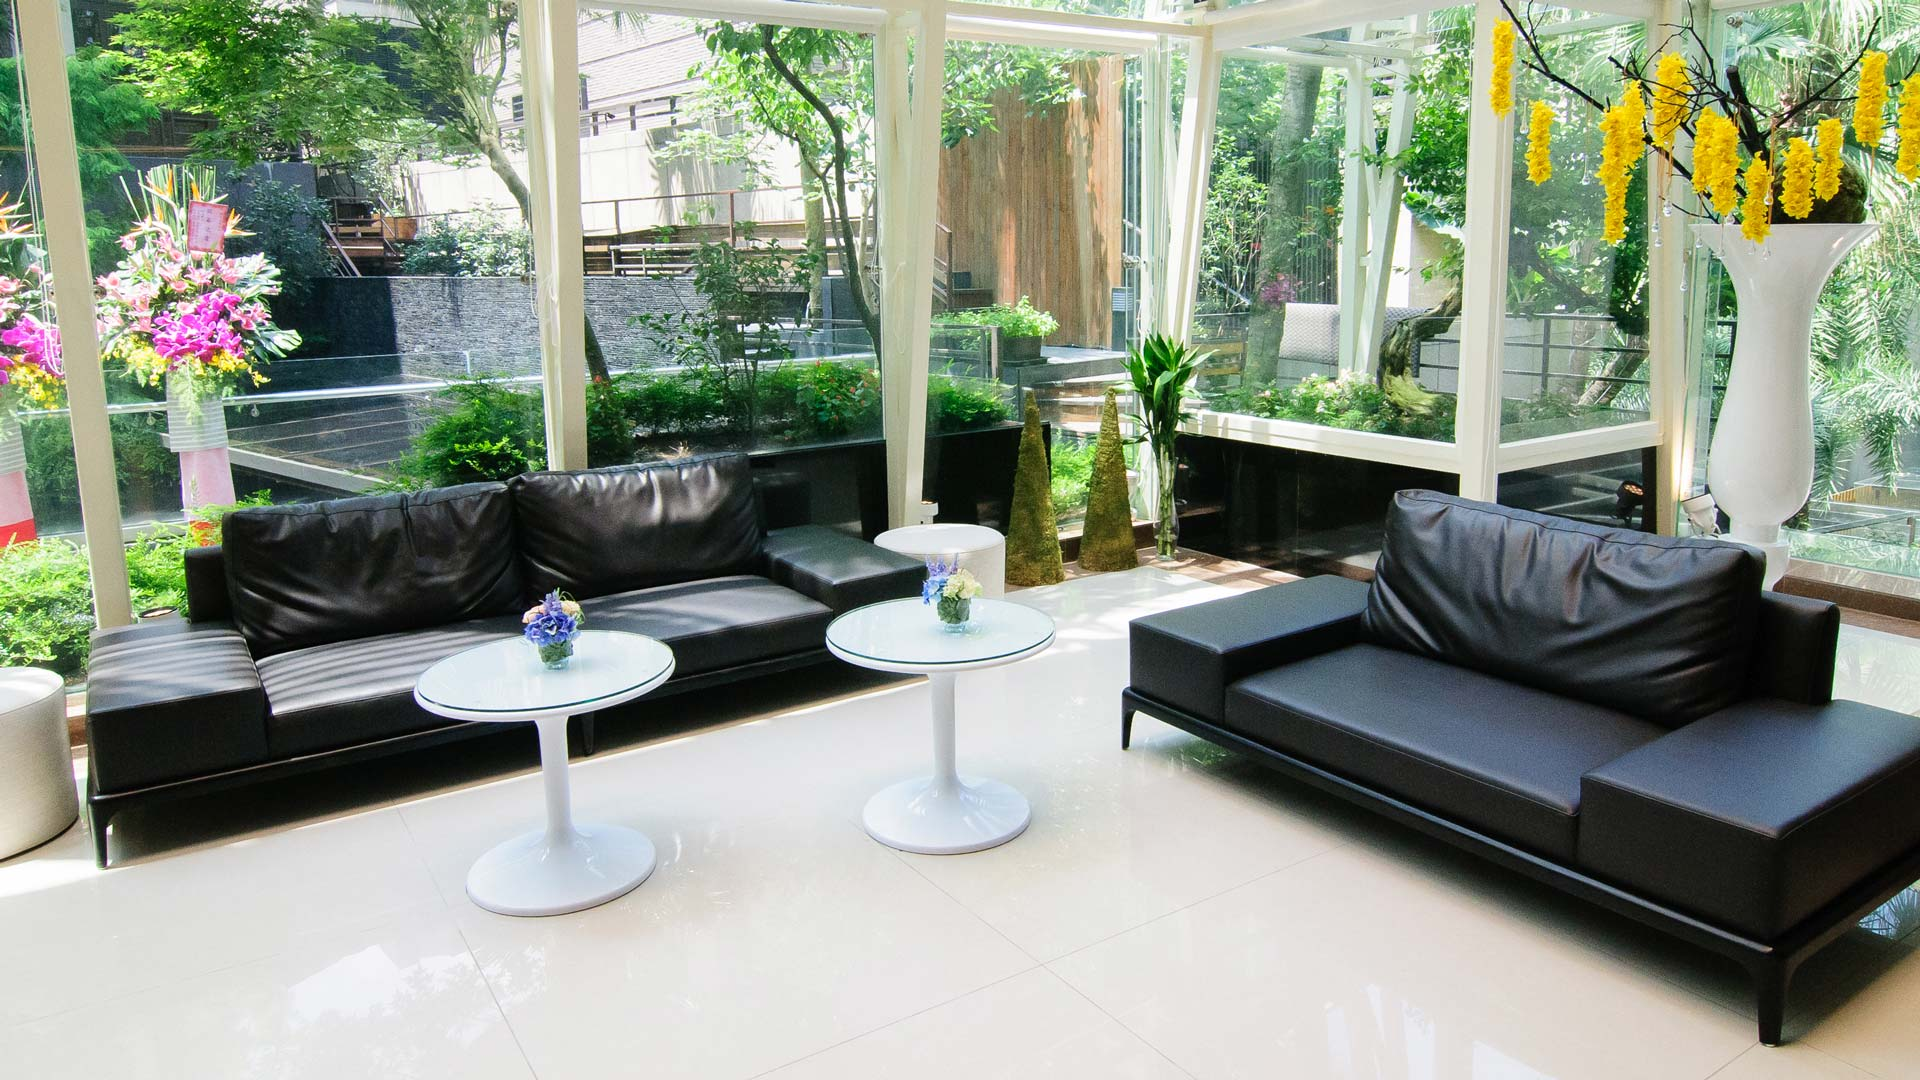
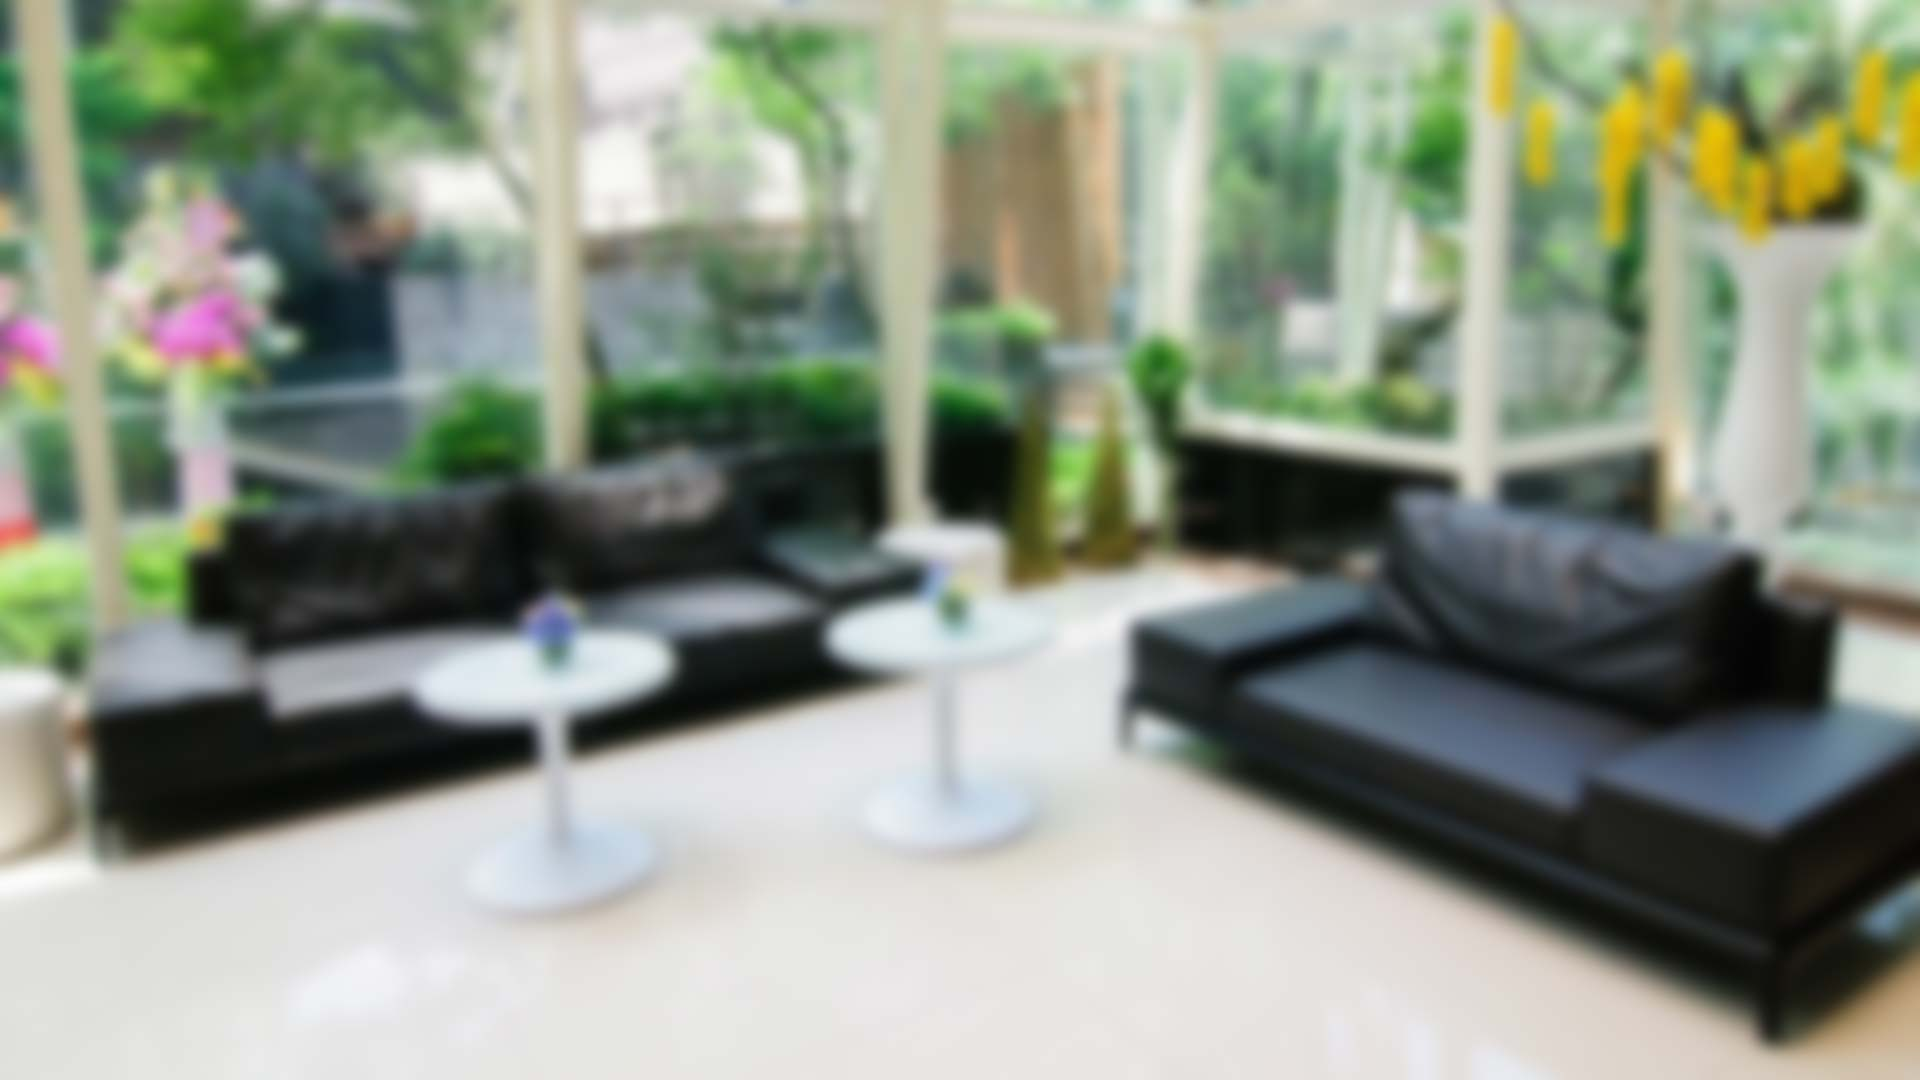
update about and adding hard-blured background

diff --git a/source/css/pages/_index.css.sass b/source/css/pages/_index.css.sass
@@ -10,24 +10,24 @@
   .logo
     +span(isolate 10 at 2)
     position: relative
-    padding: 20px
-    margin-top: 30px
+    padding: 0 20px
+    margin-top: 50px
     z-index: index($elements, logo)
     +breakpoint($b-mobile)
       +span(isolate 10 at 2)
-      margin-top: 60px
-      padding: 100px
+      margin-top: 160px
+      padding: 0 100px
     +breakpoint($b-pad)
       +span(isolate 6 at 4)
-      margin-top: 50px
+      margin-top: 150px
     +breakpoint($b-desktop)
       +span(isolate 4 at 5)
-      margin-top: 120px
-      padding: 50px
+      margin-top: 170px
+      padding: 0 50px
     +breakpoint($b-xlarge)
       +span(isolate 4 at 5)
-      margin-top: 120px
-      padding: 120px
+      margin-top: 260px
+      padding: 0 120px
 
     img
       @extend %mcenter

diff --git a/source/css/pages/_about.css.sass b/source/css/pages/_about.css.sass
@@ -59,12 +59,14 @@
       padding-bottom: 2em
   .gallery
     @extend %span12
-    img
+    .pic
       +gallery(6)
       margin-bottom: 0.5em
       +breakpoint($b-mobile)
         +gallery(3)
         margin-bottom: 1em
+    img
+      border: 5px solid #fff
   .map-view
     @extend %span12
     height: 250px
